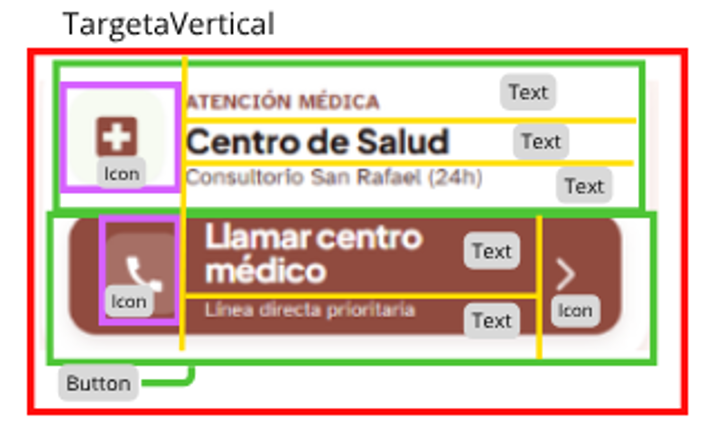
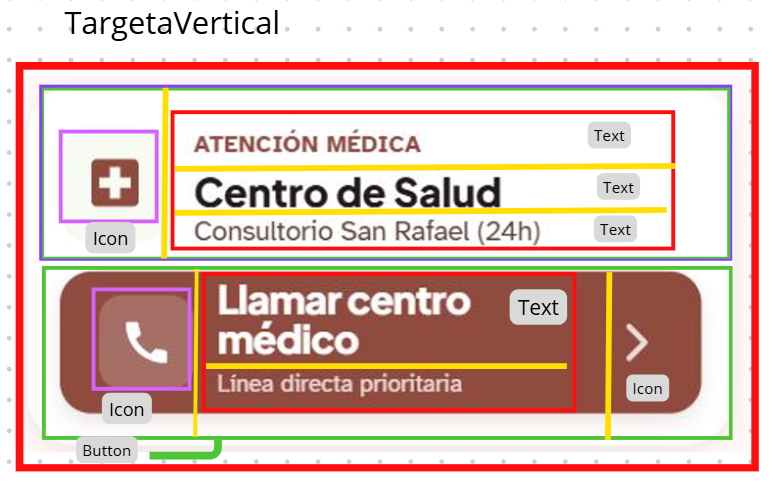
Actualización de las tarjetas de detalle

diff --git a/docs/0302_pagina_detalle.md b/docs/0302_pagina_detalle.md
@@ -13,32 +13,37 @@ Utilizaremos:
 - Rectángulo rosa: box
 - Línea amarilla: separaciones
 
+Antes de comenzar con el análisis de cada elemento, cabe destacar que toda la página está envuelta en 
+una colum que distribuye todos los elementos verticalmente.
+
 ### 1. Tarjeta Horizontal (Cabecera de Estado)
-![Tarjeta Vertical Familiares](res/TarjetaHorizontal%28cabeceraEstado%29.png)
+![Tarjeta Estado](res/TarjetaHorizontal%28cabecera%29.png)
 
 - Layout principal: Row (distribución horizontal).
 - Componentes interiores:
-    - Image: Ilustración a color del emoji.
+    - Box + Text: Ilustración a color del emoji.
     - Column: Apila verticalmente la insignia de estado y los textos correspondientes.
     - Box + Text: Contenedor marrón con el texto de estado.
 
 ### 2. Tarjeta Vertical de acción (Atención médica)
-![Tarjeta Vertical atención médica](res/TarjetaVertical%28AtencionMedica%29.png)
+![Tarjeta Atencion Medica](res/TarjetaVertical%28AtencionMedica%29.png)
 
 - Layout principal: Column (distribución vertical).
 - **Componentes interiores:**
     - Row: Presenta dos row con información.
     - Box + Icon: Contenedores redondeados para la cruz médica y el teléfono.
+    - Column: Que presenta text apilado en ambos contenedores.
     - Button: Contenedor interactivo para la llamada directa al centro médico.
     - Icon flecha.
 
 ### 3. Tarjeta Vertical de acción (Red de apoyo)
-![Tarjeta Vertical red de apoyo](res/TarjetaVertical%28RedApoyo%29.png)
+![Tarjeta Red de Apoyo](res/TarjetaVertical%28Apoyo%29.png)
 
 - Layout principal: Column (distribución vertical)
 - **Componentes interiores:**
     - Row: Presenta dos row con información.
     - Box + Icon: Contenedores redondeados para familia y el teléfono.
+    - Column: Que presenta text apilado en ambos contenedores.
     - Button: Contenedor interactivo para la llamada directa a familiares.
     - Icon flecha.
 
@@ -51,3 +56,4 @@ Utilizaremos:
     - Text: Información acerca de la privacidad de los datos personales.
 
 
+**ÁRBOL DE COMPONENTES**

diff --git a/docs/0301_pagina_listado.md b/docs/0301_pagina_listado.md
@@ -9,6 +9,7 @@ aplicación.
 
 
 
+**ÁRBOL DE COMPONENTES**
 
 
 
